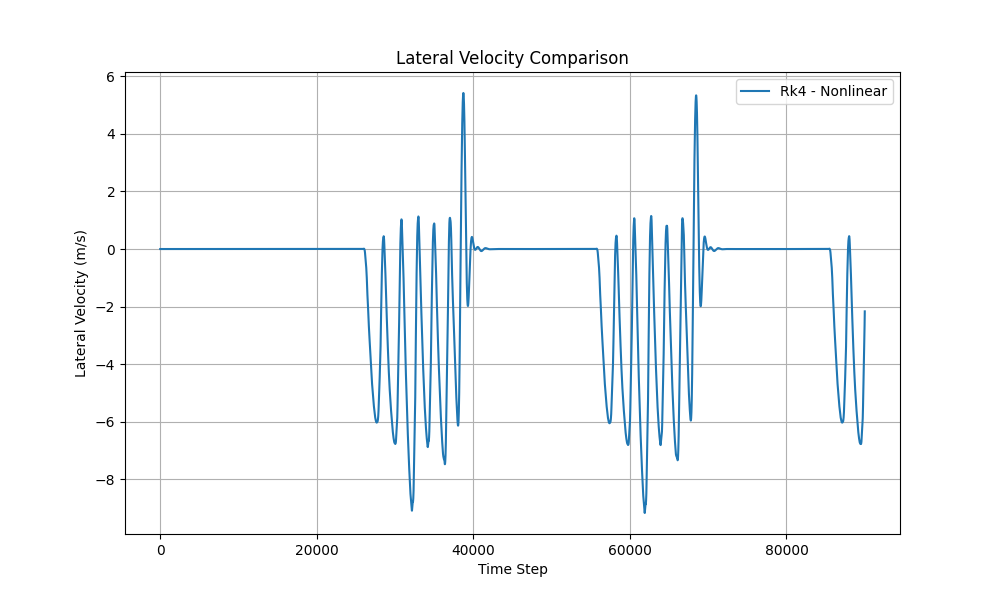
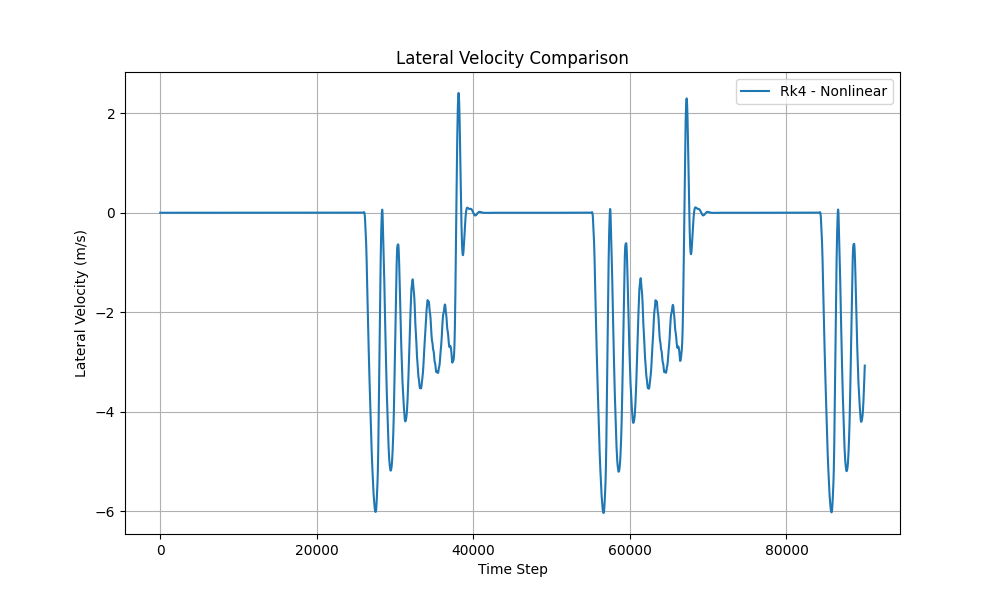
edit parameters

diff --git a/main.py b/main.py
@@ -69,6 +69,8 @@ def plot_comparison(results, labels, title, xlabel, ylabel, show = False):
     plt.savefig(f"{sim_params.figures_path}/{title}.png")
     if(show):
         plt.show()
+    else:
+        plt.close()
 
 def plot_trajectory(x_vals, y_vals, labels, path_spline, show = False):
     """ Plot 2D trajectory (x vs y) for all simulation configurations and path_spline trajectory. """
@@ -112,6 +114,7 @@ def run_simulation(ax, steer, dt, integrator, model, steps=500):
     # casadi_model() #for MPC... TO-DO
     mpc_controller.casadi_model()
     prev_time=0
+
     for step in range(steps):
         time = step*dt
         # Print time
@@ -190,7 +193,7 @@ def run_simulation(ax, steer, dt, integrator, model, steps=500):
                 targets.append(trg)
                 s_pos += step_increment
 
-            steer = mpc_controller.opt_step(targets, sim)
+            steer = np.float64(mpc_controller.opt_step(targets, sim))
 
         prev_position = cur_position
         # Make one step simulation via model integration
@@ -253,9 +256,7 @@ def run_simulation(ax, steer, dt, integrator, model, steps=500):
 def main():
 
     # List of configurations
-    configs = [
-        ("rk4", "nonlinear"),
-    ]
+    configs =sim_params.vehicle_model
 
     # Run each simulation and store the results
     all_results = []
@@ -285,19 +286,19 @@ def main():
 
     # Plot comparisons for each state variable
     plot_trajectory(x_results, y_results, labels, path_spline, show = True)
-    plot_comparison(theta_results, labels, "Heading Angle Comparison", "Time Step", "Heading Angle (rad)")
-    plot_comparison(steer_results, labels, "Steering Angle Comparison", "Time Step", "Steering Angle (rad)")
-    plot_comparison(vx_results, labels, "Longitudinal Velocity Comparison", "Time Step", "Velocity (m/s)")
-    plot_comparison(vy_results, labels, "Lateral Velocity Comparison", "Time Step", "Lateral Velocity (m/s)")
-    plot_comparison(r_results, labels, "Yaw Rate Comparison", "Time Step", "Yaw Rate (rad/s)")
-    plot_comparison(ax_results, labels, "Longiudinal Acceleration Comparison", "Time Step", "Acceleration (m/s^2)")
-    plot_comparison(alpha_f_results, labels, "Front Slip Angle Comparison", "Time Step", "Slip Angle (rad) - Front")
-    plot_comparison(alpha_r_results, labels, "Rear Slip Angle Comparison", "Time Step", "Slip Angle (rad) - Rear")
-    plot_comparison(beta_results, labels, "Side Slip Angle Comparison", "Time Step", "Slip Angle (rad) - Side")
-    plot_comparison(vel_error_results, labels, "velocity error comparison", "Time Step", "Velocity Error (%)")
-    plot_comparison(lat_error_results, labels, "lateral error comparison", "Time Step", "Lateral Error (m)")
-    plot_comparison(Fyf_results, labels, "Front Lateral Force", "Time Step", "Lateral Force - front (N)")
-    plot_comparison(Fyr_results, labels, "Rear Lateral Force", "Time Step", "Lateral Force - rear (N)")
+    plot_comparison(theta_results, labels, "Heading Angle Comparison", "Time Step", "Heading Angle (rad)", show = False)
+    plot_comparison(steer_results, labels, "Steering Angle Comparison", "Time Step", "Steering Angle (rad)", show = False)
+    plot_comparison(vx_results, labels, "Longitudinal Velocity Comparison", "Time Step", "Velocity (m/s)", show = False)
+    plot_comparison(vy_results, labels, "Lateral Velocity Comparison", "Time Step", "Lateral Velocity (m/s)", show = False)
+    plot_comparison(r_results, labels, "Yaw Rate Comparison", "Time Step", "Yaw Rate (rad/s)", show = False)
+    plot_comparison(ax_results, labels, "Longiudinal Acceleration Comparison", "Time Step", "Acceleration (m/s^2)", show = False)
+    plot_comparison(alpha_f_results, labels, "Front Slip Angle Comparison", "Time Step", "Slip Angle (rad) - Front", show = False)
+    plot_comparison(alpha_r_results, labels, "Rear Slip Angle Comparison", "Time Step", "Slip Angle (rad) - Rear", show = False)
+    plot_comparison(beta_results, labels, "Side Slip Angle Comparison", "Time Step", "Slip Angle (rad) - Side", show = False)
+    plot_comparison(vel_error_results, labels, "velocity error comparison", "Time Step", "Velocity Error (%)", show = False)
+    plot_comparison(lat_error_results, labels, "lateral error comparison", "Time Step", "Lateral Error (m)", show = True)
+    plot_comparison(Fyf_results, labels, "Front Lateral Force", "Time Step", "Lateral Force - front (N)", show = False)
+    plot_comparison(Fyr_results, labels, "Rear Lateral Force", "Time Step", "Lateral Force - rear (N)", show = False)
 
 if __name__ == "__main__":
     main()

diff --git a/parameters.py b/parameters.py
@@ -7,30 +7,33 @@ class SimulationParameters:
     target_speed = 28.0
     controller = 'purepursuit'
     figures_path = 'figures/general'
+    vehicle_model = [
+        ("rk4", "nonlinear"),
+    ]
 
 
 class VehicleParameters:
-    lf = 1.156                  # Distance from COG to front axle (m)
-    lr = 1.42                   # Distance from COG to rear axle (m)
-    wheelbase = lf + lr         # Wheelbase of vehicle
-    mass = 1200                 # Vehicle mass (kg)
-    Iz = 1792                   # Yaw moment of inertia (kg*m^2)
-    max_steer = 3.14            # Maximum steering angle in radians
-    min_steer = -3.14            # Maximum steering angle in radians
+    lf = 1.156                # Distance from COG to front axle (m)
+    lr = 1.42                 # Distance from COG to rear axle (m)
+    wheelbase = lf + lr       # Wheelbase of vehicle
+    mass = 1200               # Vehicle mass (kg)
+    Iz = 1792                 # Yaw moment of inertia (kg*m^2)
+    max_steer = 3.14          # Maximum steering angle in radians
+    min_steer = -3.14         # Maximum steering angle in radians
 
 
 class PIDParameters:
-    kp = 1.7                      # Proportional gain
-    ki = 0.7                    # Integrative gain
-    kd = 0.1                    # Derivative gain
-    output_limits = (-2, 2)     # Saturation limits
+    kp = 1.7                  # Proportional gain
+    ki = 0.7                  # Integrative gain
+    kd = 0.1                  # Derivative gain
+    output_limits = (-2, 2)   # Saturation limits
 
 
 class PurepursuitParameters:
-    k_v = 0.15                     # Speed proportional gain for Pure Pursuit
-    k_c = 0.08                   # Curve proportional gain for Pure Pursuit
-    limit_curvature = 0.01           # Minimum heading angle for adding curve proportional gain
-    look_ahead = 1.0            # Minimum look-ahead distance for Pure Pursuit
+    k_v = 0.13                # Speed proportional gain for Pure Pursuit
+    k_c = 0.05                # Curve proportional gain for Pure Pursuit
+    limit_curvature = 0.01    # Minimum heading angle for adding curve proportional gain
+    look_ahead = 1.0          # Minimum look-ahead distance for Pure Pursuit
 
 
 class StanleyParameters:
@@ -40,6 +43,6 @@ class StanleyParameters:
 
 
 class MpcParameters:
-    T =  1.0 # Horizon length in seconds
-    dt = 0.1 # Horizon timesteps
-    N = int(T/dt) # Horizon total points
+    T =  1                    # Horizon length in seconds
+    dt = 0.05                 # Horizon timesteps
+    N = int(T/dt)             # Horizon total points
